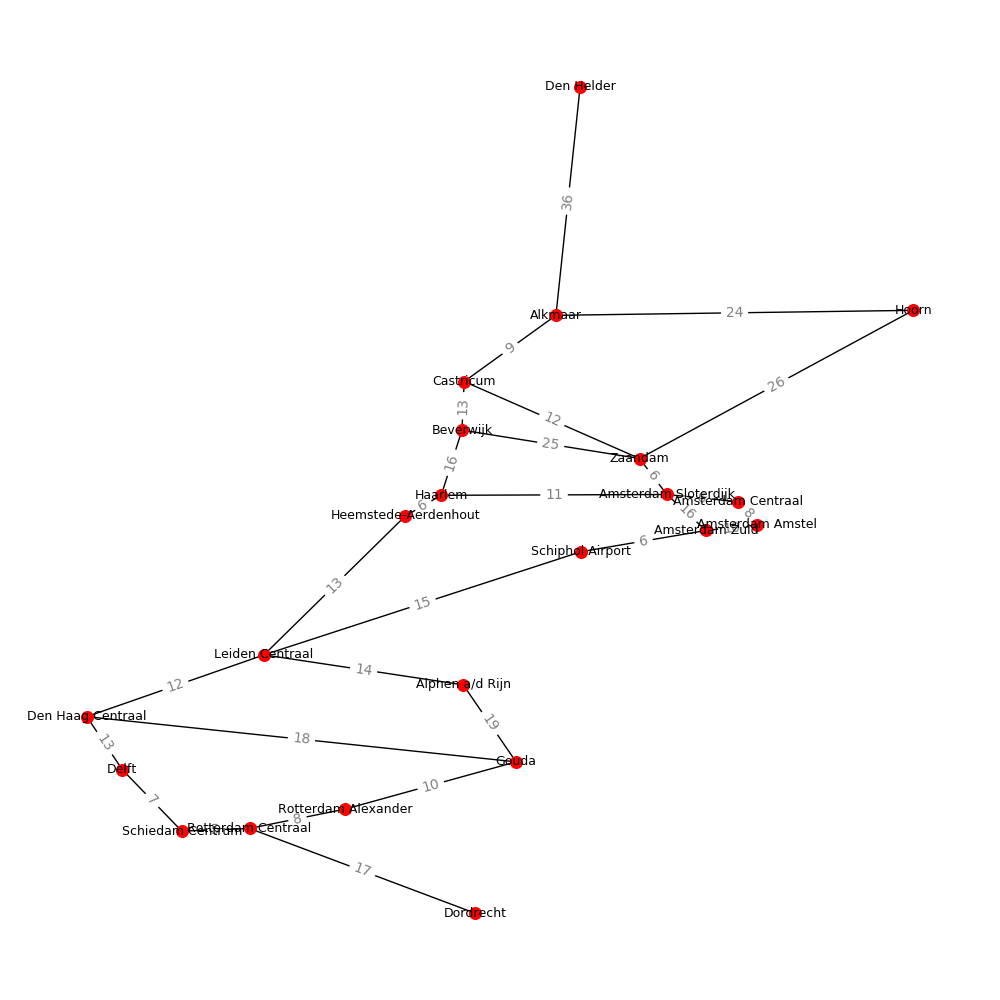
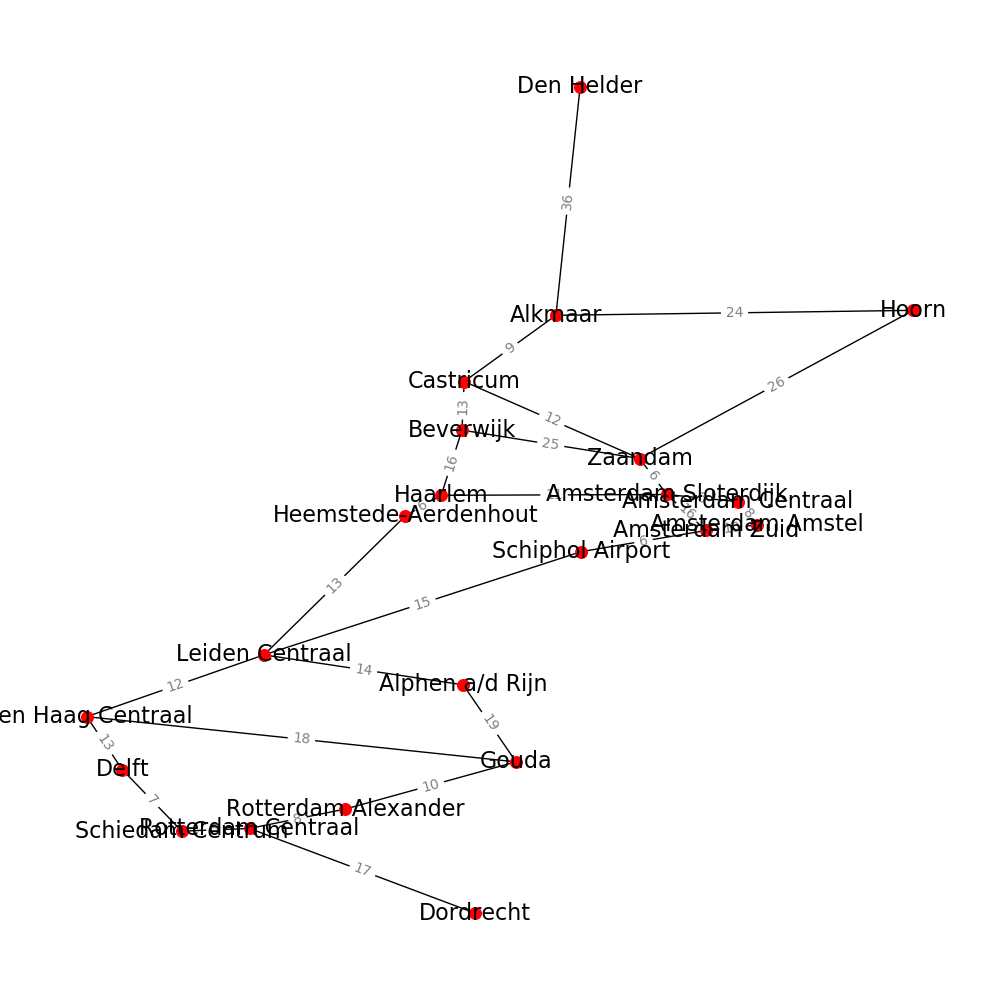
figuur aangepast

diff --git a/Klad/draw_graph.py b/Klad/draw_graph.py
@@ -8,7 +8,10 @@ stationsCsvFile = 'C:/Users/Susanne/RailNL/csvFiles/StationsHolland.csv'
 stationsfile = open(stationsCsvFile, 'rt')
 stations = csv.reader(stationsfile)
 for station in stations:
-    G.add_node("" + station[0], pos = (float(station[2]), float(station[1])))
+    if station[3] == "Kritiek":
+        G.add_node("" + station[0], pos = (float(station[2]), float(station[1])), node_colour = "r")
+    else:
+        G.add_node("" + station[0], pos = (float(station[2]), float(station[1])), node_colour = "b")
 
 
 connectiesCsvFile = 'C:/Users/Susanne/RailNL/csvFiles/ConnectiesHolland.csv'
@@ -20,8 +23,9 @@ for direction in directions:
 print(labels)
 
 pos=nx.get_node_attributes(G,'pos')
+# node_colour=nx.get_node_attributes(G, 'node_colour')
 plt.figure(1, figsize = (10,10))
-nx.draw(G, pos, with_labels = True, node_size=70, font_size=9, label_pos=3)
+nx.draw(G, pos, with_labels = True, node_size=70, font_size=16, label_pos=3)
 nx.draw_networkx_edge_labels(G, pos, labels, alpha = 0.5)
 plt.savefig("plot.png")
-#plt.show()
+plt.show()

diff --git a/Klad/giu.py b/Klad/giu.py
@@ -1,0 +1,27 @@
+print("For depth first algorithm, type: 1")
+print("For Dijkstra's algorithm, type: 2")
+print("For Sven's algorithm, type: 3")
+print("For the Hillclimber, type: 4")
+
+algorithm = input("Select: ")
+
+
+
+if (int(algorithm) == 1):
+
+elif (int(algorithm) == 2):
+
+elif (int(algorithm) == 3):
+
+elif (int(algorithm) == 4):
+    bestPaths = algoritm3(graph)
+    pathsSelected = bestPaths[0:7]
+
+    bestScore = CalculateScore(pathsSelected, graph.criticalConnections)
+    for i in range(100):
+        pathsSelected, bestScore = HillClimber(graph, pathsSelected, bestPaths, bestScore)
+    print("paths: ", pathsSelected)
+    print("bestScore: ", bestScore)
+else:
+    while (int(algorithm) != 1 or int(algorithm) != 2 or int(algorithm) != 3 or int(algorithm) != 4):
+         algorithm = input("Please select valid algorithm: ")
